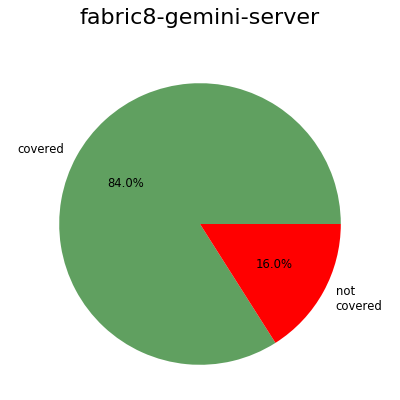
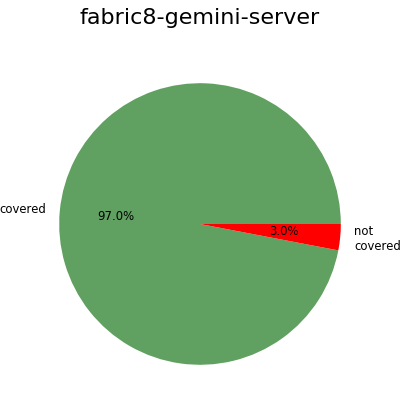
Code coverage report for the current week, 2nd version

diff --git a/dashboard/coverage.html b/dashboard/coverage.html
@@ -378,11 +378,11 @@
                         <td class="numeric" style="width:7ex">1138<br />&nbsp;</td>
                             <td class="numeric ok" style="width:7ex">
                                 269<br />
-                                288
+                                244
                             </td>
                             <td class="numeric error" style="width:7ex">
                                 90<br />
-                                46
+                                7
                             </td>
                             <td class="numeric" style="width:16ex">
                                 <a href="fabric8-gemini-server.coverage.0.txt">
@@ -392,8 +392,8 @@
                                 </a><br />
                                 <div style="margin-bottom:2px"></div>
                                 <a href="fabric8-gemini-server.coverage.1.txt">
-                                    <div class='progress-bar progress-bar-warning progress-bar-striped' style='width:86.39999999999999%'>
-                                    84%
+                                    <div class='progress-bar progress-bar-success progress-bar-striped' style='width:97.45%'>
+                                    97%
                                     </div>
                                 </a>
                             </td>
@@ -402,7 +402,7 @@
                         <td class="numeric" style="width:5ex">
                                 90 %
                         </td>
-                                <td class="boolean error">no</td>
+                                <td class="boolean ok">yes</td>
                     </tr>
                     <tr>
                         <td style="width:36ex"><a href="https://github.com/fabric8-analytics/fabric8-analytics-version-comparator">fabric8-analytics-version-comparator</a><br />&nbsp;</td>
@@ -567,7 +567,7 @@
             </div>
             <div style='height:100px'></div>
             <div>Author: Pavel Tisnovsky &lt;<a href="mailto:ptisnovs@redhat.com">ptisnovs@redhat.com</a>&gt;</div>
-            <div>Generated on: 2018-06-15 14:02:34</div>
+            <div>Generated on: 2018-06-15 16:06:41</div>
         </div>
     </body>
 </html>

diff --git a/dashboard/coverage2txt.html b/dashboard/coverage2txt.html
@@ -378,11 +378,11 @@
                         <td>previous<br/>current</td>
                         <td class="numeric ok" style="width:7ex">
                             269<br />
-                            288
+                            244
                         </td>
                         <td class="numeric error" style="width:7ex">
                             90<br />
-                            46
+                            7
                         </td>
                         <td class="numeric" style="width:16ex">
                             <a href="fabric8-gemini-server.coverage.0.txt">
@@ -392,8 +392,8 @@
                             </a><br />
                             <div style="margin-bottom:2px"></div>
                             <a href="fabric8-gemini-server.coverage.1.txt">
-                                <div class='progress-bar progress-bar-warning progress-bar-striped' style='width:86.39999999999999%'>
-                                84%
+                                <div class='progress-bar progress-bar-success progress-bar-striped' style='width:97.45%'>
+                                97%
                                 </div>
                             </a>
                         </td>
@@ -401,7 +401,7 @@
                         <td class="numeric" style="width:5ex">
                                 90 %
                         </td>
-                                <td class="boolean error">no</td>
+                                <td class="boolean ok">yes</td>
                     </tr>
                     <tr>
                         <td style="width:36ex"><a href="https://github.com/fabric8-analytics/fabric8-analytics-version-comparator">fabric8-analytics-version-comparator</a><br />&nbsp;</td>
@@ -566,7 +566,7 @@
             </div>
             <div style='height:100px'></div>
             <div>Author: Pavel Tisnovsky &lt;<a href="mailto:ptisnovs@redhat.com">ptisnovs@redhat.com</a>&gt;</div>
-            <div>Generated on: 2018-06-15 14:02:34</div>
+            <div>Generated on: 2018-06-15 16:06:41</div>
         </div>
     </body>
 </html>
